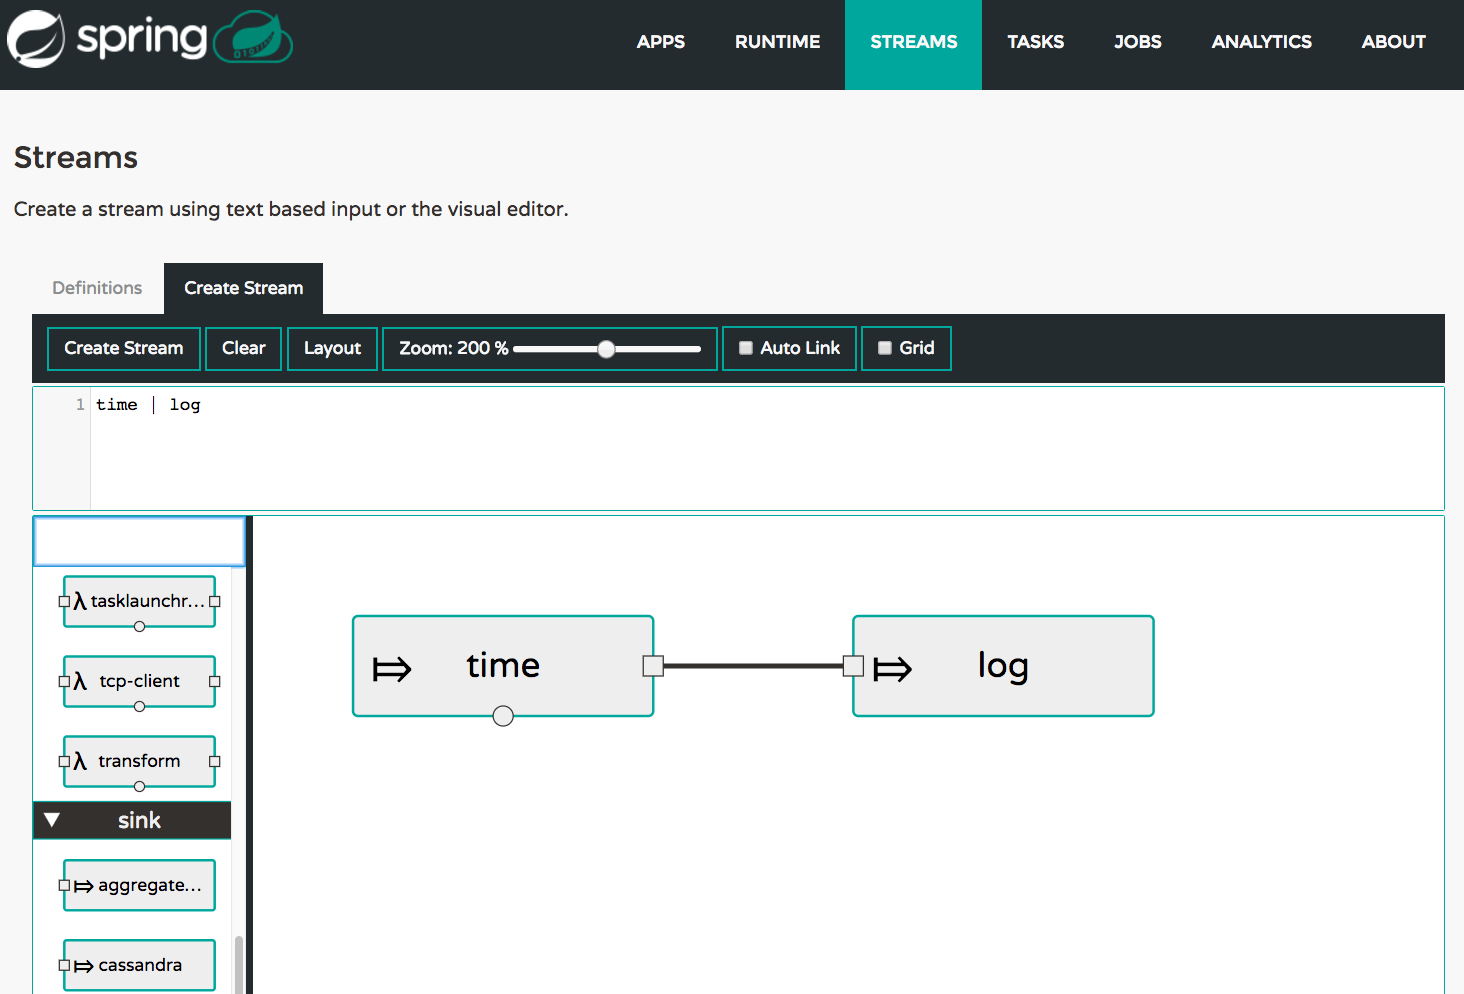
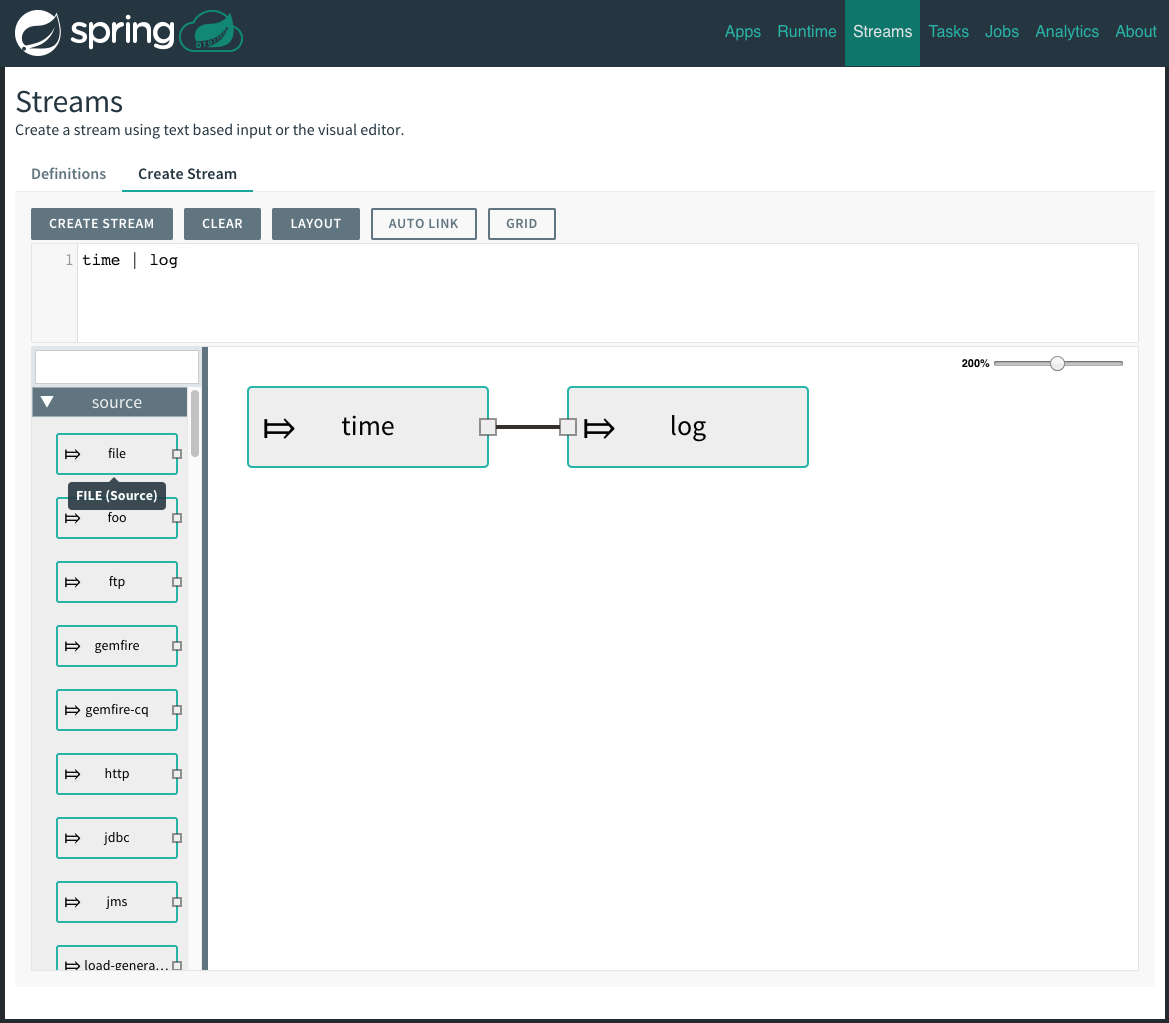
Update 1.3 GA, change link references, and update screenshots

diff --git a/index.html b/index.html
@@ -82,9 +82,9 @@ An easy way to get started on Spring Cloud Data Flow would be to follow the plat
 
 | __Server Type__      | __Stable Release__                                                                                                                                                                                                                                                                                                  | __Milestone/Snapshot Release__                                                                                                                                                                                                                                                                       |
 |:---------------------|:--------------------------------------------------------------------------------------------------------------------------------------------------------------------------------------------------------------------------------------------------------------------------------------------------------------------|:-----------------------------------------------------------------------------------------------------------------------------------------------------------------------------------------------------------------------------------------------------------------------------------------------------|
-| Local Server         | [1.2.3.RELEASE](http://repo.spring.io/libs-release/org/springframework/cloud/spring-cloud-dataflow-server-local/1.2.3.RELEASE/spring-cloud-dataflow-server-local-1.2.3.RELEASE.jar)[[docs](http://docs.spring.io/spring-cloud-dataflow/docs/1.2.3.RELEASE/reference/htmlsingle/#getting-started)]                                   | [1.3.0.RC1](http://repo.spring.io/libs-snapshot/org/springframework/cloud/spring-cloud-dataflow-server-local/1.3.0.RC1/spring-cloud-dataflow-server-local-1.3.0.RC1.jar)[[docs](http://docs.spring.io/spring-cloud-dataflow/docs/1.3.0.RC1/reference/htmlsingle/#getting-started)]                                   |
-| [Cloud Foundry Server](http://cloud.spring.io/spring-cloud-dataflow-server-cloudfoundry/) | [1.2.4.RELEASE](http://repo.spring.io/libs-release/org/springframework/cloud/spring-cloud-dataflow-server-cloudfoundry/1.2.4.RELEASE/spring-cloud-dataflow-server-cloudfoundry-1.2.4.RELEASE.jar)[[docs](http://docs.spring.io/spring-cloud-dataflow-server-cloudfoundry/docs/1.2.4.RELEASE/reference/htmlsingle/#getting-started)] | [1.3.0.RC1](http://repo.spring.io/libs-snapshot/org/springframework/cloud/spring-cloud-dataflow-server-cloudfoundry/1.3.0.RC1/spring-cloud-dataflow-server-cloudfoundry-1.3.0.RC1.jar)[[docs](http://docs.spring.io/spring-cloud-dataflow-server-cloudfoundry/docs/1.3.0.RC1/reference/htmlsingle/#getting-started)] |
-| [Kubernetes Server](http://cloud.spring.io/spring-cloud-dataflow-server-kubernetes/)    | [1.2.2.RELEASE](http://repo.spring.io/libs-release/org/springframework/cloud/spring-cloud-dataflow-server-kubernetes/1.2.2.RELEASE/spring-cloud-dataflow-server-kubernetes-1.2.2.RELEASE.jar)[[docs](http://docs.spring.io/spring-cloud-dataflow-server-kubernetes/docs/1.2.2.RELEASE/reference/htmlsingle/#kubernetes-getting-started)]       | [1.3.0.RC1](http://repo.spring.io/libs-snapshot/org/springframework/cloud/spring-cloud-dataflow-server-kubernetes/1.3.0.RC1/spring-cloud-dataflow-server-kubernetes-1.3.0.RC1.jar)[[docs](http://docs.spring.io/spring-cloud-dataflow-server-kubernetes/docs/1.3.0.RC1/reference/htmlsingle/#kubernetes-getting-started)]       |
+| Local Server         | [1.3.0.RELEASE](http://repo.spring.io/libs-release/org/springframework/cloud/spring-cloud-dataflow-server-local/1.3.0.RELEASE/spring-cloud-dataflow-server-local-1.3.0.RELEASE.jar)[[docs](http://docs.spring.io/spring-cloud-dataflow/docs/1.3.0.RELEASE/reference/htmlsingle/#getting-started)]                                   | [1.3.1.BUILD-SNAPSHOT](http://repo.spring.io/libs-snapshot/org/springframework/cloud/spring-cloud-dataflow-server-local/1.3.1.BUILD-SNAPSHOT/spring-cloud-dataflow-server-local-1.3.1.BUILD-SNAPSHOT.jar)[[docs](http://docs.spring.io/spring-cloud-dataflow/docs/1.3.1.BUILD-SNAPSHOT/reference/htmlsingle/#getting-started)]                                   |
+| [Cloud Foundry Server](http://cloud.spring.io/spring-cloud-dataflow-server-cloudfoundry/) | [1.3.0.RELEASE](http://repo.spring.io/libs-release/org/springframework/cloud/spring-cloud-dataflow-server-cloudfoundry/1.3.0.RELEASE/spring-cloud-dataflow-server-cloudfoundry-1.3.0.RELEASE.jar)[[docs](http://docs.spring.io/spring-cloud-dataflow-server-cloudfoundry/docs/1.3.0.RELEASE/reference/htmlsingle/#getting-started)] | [1.3.1.BUILD-SNAPSHOT](http://repo.spring.io/libs-snapshot/org/springframework/cloud/spring-cloud-dataflow-server-cloudfoundry/1.3.1.BUILD-SNAPSHOT/spring-cloud-dataflow-server-cloudfoundry-1.3.1.BUILD-SNAPSHOT.jar)[[docs](http://docs.spring.io/spring-cloud-dataflow-server-cloudfoundry/docs/1.3.1.BUILD-SNAPSHOT/reference/htmlsingle/#getting-started)] |
+| [Kubernetes Server](http://cloud.spring.io/spring-cloud-dataflow-server-kubernetes/)    | [1.3.0.RELEASE](http://repo.spring.io/libs-release/org/springframework/cloud/spring-cloud-dataflow-server-kubernetes/1.3.0.RELEASE/spring-cloud-dataflow-server-kubernetes-1.3.0.RELEASE.jar)[[docs](http://docs.spring.io/spring-cloud-dataflow-server-kubernetes/docs/1.3.0.RELEASE/reference/htmlsingle/#kubernetes-getting-started)]       | [1.3.1.BUILD-SNAPSHOT](http://repo.spring.io/libs-snapshot/org/springframework/cloud/spring-cloud-dataflow-server-kubernetes/1.3.1.BUILD-SNAPSHOT/spring-cloud-dataflow-server-kubernetes-1.3.1.BUILD-SNAPSHOT.jar)[[docs](http://docs.spring.io/spring-cloud-dataflow-server-kubernetes/docs/1.3.1.BUILD-SNAPSHOT/reference/htmlsingle/#kubernetes-getting-started)]       |
 | [Apache YARN Server](http://cloud.spring.io/spring-cloud-dataflow-server-yarn/)   | [1.2.2.RELEASE](http://repo.spring.io/libs-release/org/springframework/cloud/spring-cloud-dataflow-server-yarn/1.2.2.RELEASE/spring-cloud-dataflow-server-yarn-1.2.2.RELEASE.jar)[[docs](http://docs.spring.io/spring-cloud-dataflow-server-yarn/docs/1.2.2.RELEASE/reference/htmlsingle/#yarn-deploying-on-yarn)]                         | [1.2.3.BUILD-SNAPSHOT](http://repo.spring.io/libs-snapshot/org/springframework/cloud/spring-cloud-dataflow-server-yarn/1.2.3.BUILD-SNAPSHOT/spring-cloud-dataflow-server-yarn-1.2.3.BUILD-SNAPSHOT.jar)[[docs](http://docs.spring.io/spring-cloud-dataflow-server-yarn/docs/1.2.3.BUILD-SNAPSHOT/reference/htmlsingle/#yarn-deploying-on-yarn)]                         |
 | [Apache Mesos Server](http://cloud.spring.io/spring-cloud-dataflow-server-mesos/)  | [1.0.0.RELEASE](http://repo.spring.io/libs-milestone/org/springframework/cloud/spring-cloud-dataflow-server-mesos/1.0.0.RELEASE/spring-cloud-dataflow-server-mesos-1.0.0.RELEASE.jar)[[docs](http://docs.spring.io/spring-cloud-dataflow-server-mesos/docs/1.0.0.RELEASE/reference/htmlsingle/#_getting_started)]                    | [1.1.0.BUILD-SNAPSHOT](https://github.com/spring-cloud/spring-cloud-dataflow-server-mesos#building)[[docs](http://docs.spring.io/spring-cloud-dataflow-server-mesos/docs/current-SNAPSHOT/reference/htmlsingle/#_getting_started)]                                                                                    |
 
@@ -92,7 +92,7 @@ An easy way to get started on Spring Cloud Data Flow would be to follow the plat
 
 - [Spring Cloud Data Flow for HashiCorp Nomad](https://github.com/donovanmuller/spring-cloud-dataflow-server-nomad)
 - [Spring Cloud Data Flow for Red Hat OpenShift](https://github.com/donovanmuller/spring-cloud-dataflow-server-openshift)
-
+  
 <span id="quick-start"></span>
 
 ## Quick Start
@@ -101,13 +101,13 @@ An easy way to get started on Spring Cloud Data Flow would be to follow the plat
 _Mac users can use 'curl -O' instead of wget._
 
 ```
-wget http://repo.spring.io/release/org/springframework/cloud/spring-cloud-dataflow-server-local/1.2.3.RELEASE/spring-cloud-dataflow-server-local-1.2.3.RELEASE.jar
+wget http://repo.spring.io/release/org/springframework/cloud/spring-cloud-dataflow-server-local/1.3.0.RELEASE/spring-cloud-dataflow-server-local-1.3.0.RELEASE.jar
 ```
 
 <br>
 <u><b>Step 2</b></u> - Launch the Local-Server.
 ```
-java -jar spring-cloud-dataflow-server-local-1.2.3.RELEASE.jar
+java -jar spring-cloud-dataflow-server-local-1.3.0.RELEASE.jar
 ```
 
 <br>
@@ -116,7 +116,7 @@ _Mac homebrew users can 'brew install kafka'_
 
 <u><b>Step 4</b></u> - Open the dashboard at [http://localhost:9393/dashboard](http://localhost:9393/dashboard).
 
-<u><b>Step 5</b></u> - Bulk Import out-of-the-box stream applications for Apache Kafka using the URI 'http://bit.ly/Bacon-RELEASE-stream-applications-kafka-10-maven'.
+<u><b>Step 5</b></u> - Bulk Import out-of-the-box stream applications for Apache Kafka using the URI 'http://bit.ly/Celsius-SR1-stream-applications-kafka-10-maven'.
 <br>
 (_latest bit.ly links [here](http://cloud.spring.io/spring-cloud-stream-app-starters/#stream-app-starters-and-spring-cloud-data-flow-)_)
 
@@ -356,6 +356,8 @@ Spring Cloud Data Flow builds upon several projects and the top-level building b
 * [Predictive Analytics](https://docs.spring.io/spring-cloud-dataflow-samples/docs/current/reference/htmlsingle/#_data_science)
 * [HTTP -> Cassandra](https://docs.spring.io/spring-cloud-dataflow-samples/docs/current/reference/htmlsingle/#spring-cloud-data-flow-samples-http-cassandra-overview)
 * [HTTP -> MySQL](https://docs.spring.io/spring-cloud-dataflow-samples/docs/current/reference/htmlsingle/#_http_to_mysql_demo)
+* [HTTP -> Gemfire](https://docs.spring.io/spring-cloud-dataflow-samples/docs/current/reference/htmlsingle/#_http_to_gemfire_demo)
+* [Functions in SCDF](https://docs.spring.io/spring-cloud-dataflow-samples/docs/current/reference/htmlsingle/#_functions)
 
 ### Related Projects
 
@@ -363,9 +365,18 @@ Spring Cloud Data Flow builds upon several projects and the top-level building b
 * [Spring Cloud Stream Applications](http://cloud.spring.io/spring-cloud-stream-app-starters/)
 * [Spring Cloud Task](http://cloud.spring.io/spring-cloud-task/)
 * [Spring Cloud Task Applications](http://cloud.spring.io/spring-cloud-task-app-starters/)
+* [Spring Cloud Skipper](http://cloud.spring.io/spring-cloud-skipper/)
+
+### Customer Case Studies
+
+* [Latency Tracing with SCDF](https://content.pivotal.io/springone-platform-2017/latency-and-event-tracing-with-spring-cloud-data-flow-henri-van-den-bulk-craig-duero-tom-martin)
+* [Batch Processing with SCDF](https://content.pivotal.io/springone-platform-2017/case-study-of-batch-processing-with-spring-cloud-data-flow-server-in-cloud-foundry-bruce-thelen)
+* [Low Latency Event-Driven ETL](https://content.pivotal.io/springone-platform-2017/case-study-of-batch-processing-with-spring-cloud-data-flow-server-in-cloud-foundry-bruce-thelen)
+* [Domain Driven Design with Spring Cloud Stream](https://content.pivotal.io/springone-platform-2017/deconstructing-monoliths-with-domain-driven-design-rohit-kelapure-david-turanski-rohit-sood)
 
 ### Videos
 
+* [CI/CD + SCDF](https://content.pivotal.io/springone-platform-2017/orchestrating-data-microservices-with-spring-cloud-data-flow-mark-pollack)
 * [Twitter Sentiment Analytics with TensorFlow](https://www.youtube.com/watch?v=QzF2Iii4s5c)
 * [Data Microservices with Spring Cloud Data Flow](https://www.youtube.com/watch?v=Z6_ttC33N0U)
 * [Data Microservices in the Cloud](https://www.youtube.com/watch?v=H-T-0WdZ3Sk&index=174&list=PLAdzTan_eSPQ1fuLSBhyB4eEZF7JQM0Mx)
